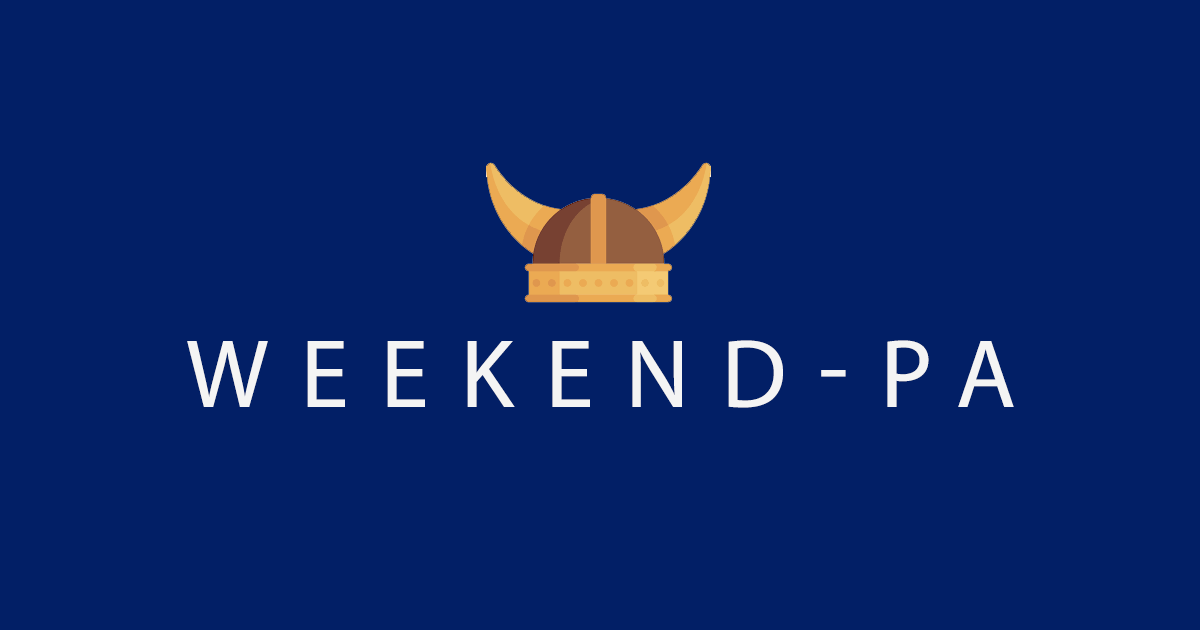
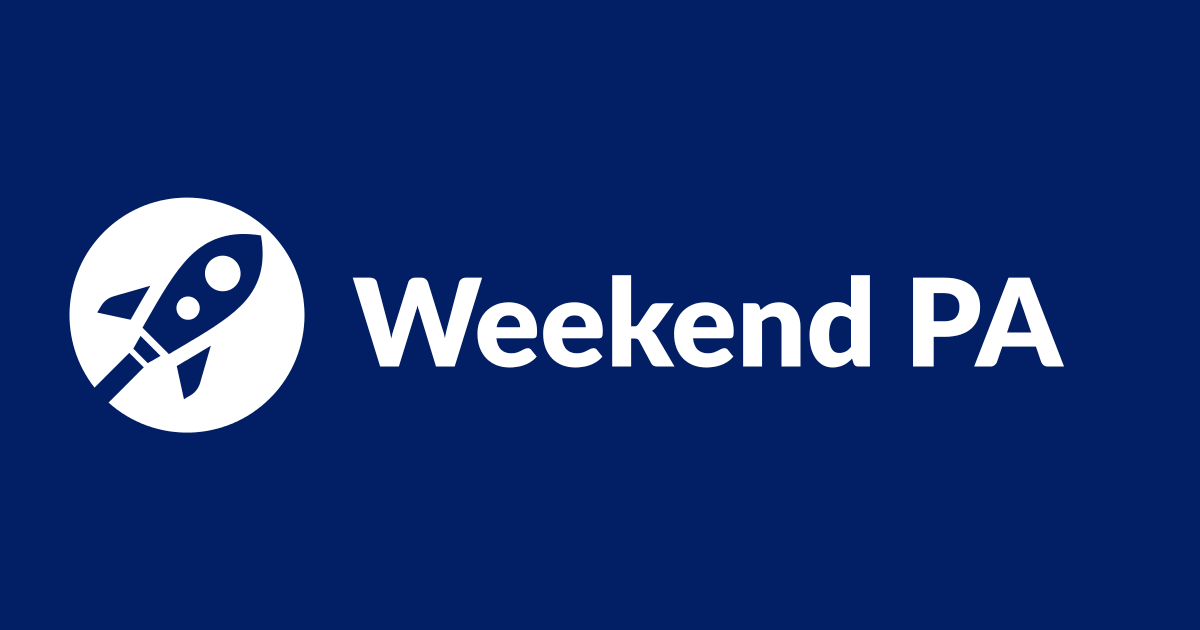
No SVGs, they break production

Changed region(s): [[0.0308, 0.2413, 0.8942, 0.6937]]

diff --git a/public/404.html b/public/404.html
@@ -42,7 +42,7 @@
 
 <body class="weekendPA_app-default-404-page">
   <!-- This file lives in public/404.html -->
-  <image src="assets/cover.png"/>
+  <image src="assets/logo.png"/>
   <h1>The page you were looking for doesn't exist.</h1>
   <p>You may have mistyped the address or the page may have moved.</p>
 </body>

diff --git a/app/assets/stylesheets/components/_landing.scss b/app/assets/stylesheets/components/_landing.scss
@@ -1,11 +1,10 @@
-.logo {
-  position: absolute;
-  width: 80%;
-  height: 68px;
-  left: 10%;
-  top: 15%;
-  z-index: -1;
+.logo-container {
+  text-align: center;
+}
 
+.logo {
+  width: 80%;
+  z-index: -1;
   box-shadow: 0px 4px 4px rgba(255, 255, 255, 0.25);
   border-radius: 8px;
 }

diff --git a/public/500.html b/public/500.html
@@ -42,7 +42,7 @@
 
 <body class="weekendPA_app-default-404-page">
   <!-- This file lives in public/404.html -->
-  <image src="assets/cover.png"/>
+  <image src="assets/logo.png"/>
   <h1>We're sorry, but something went wrong.</h1>
   <p>We done goofed!</p>
 </body>
